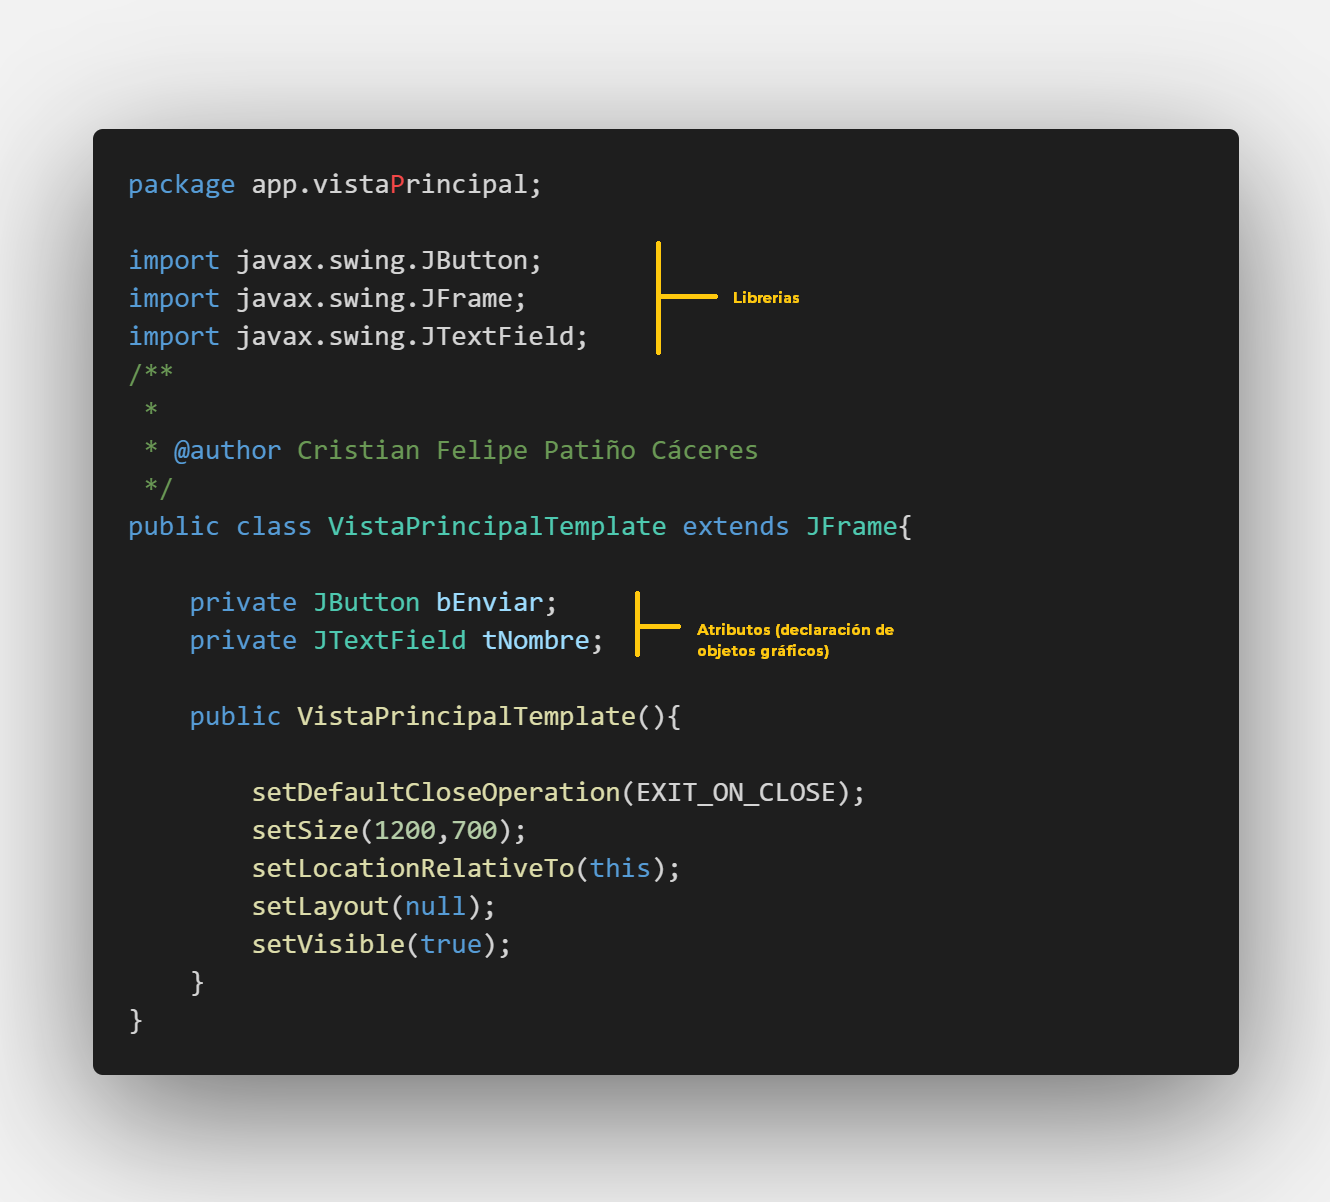
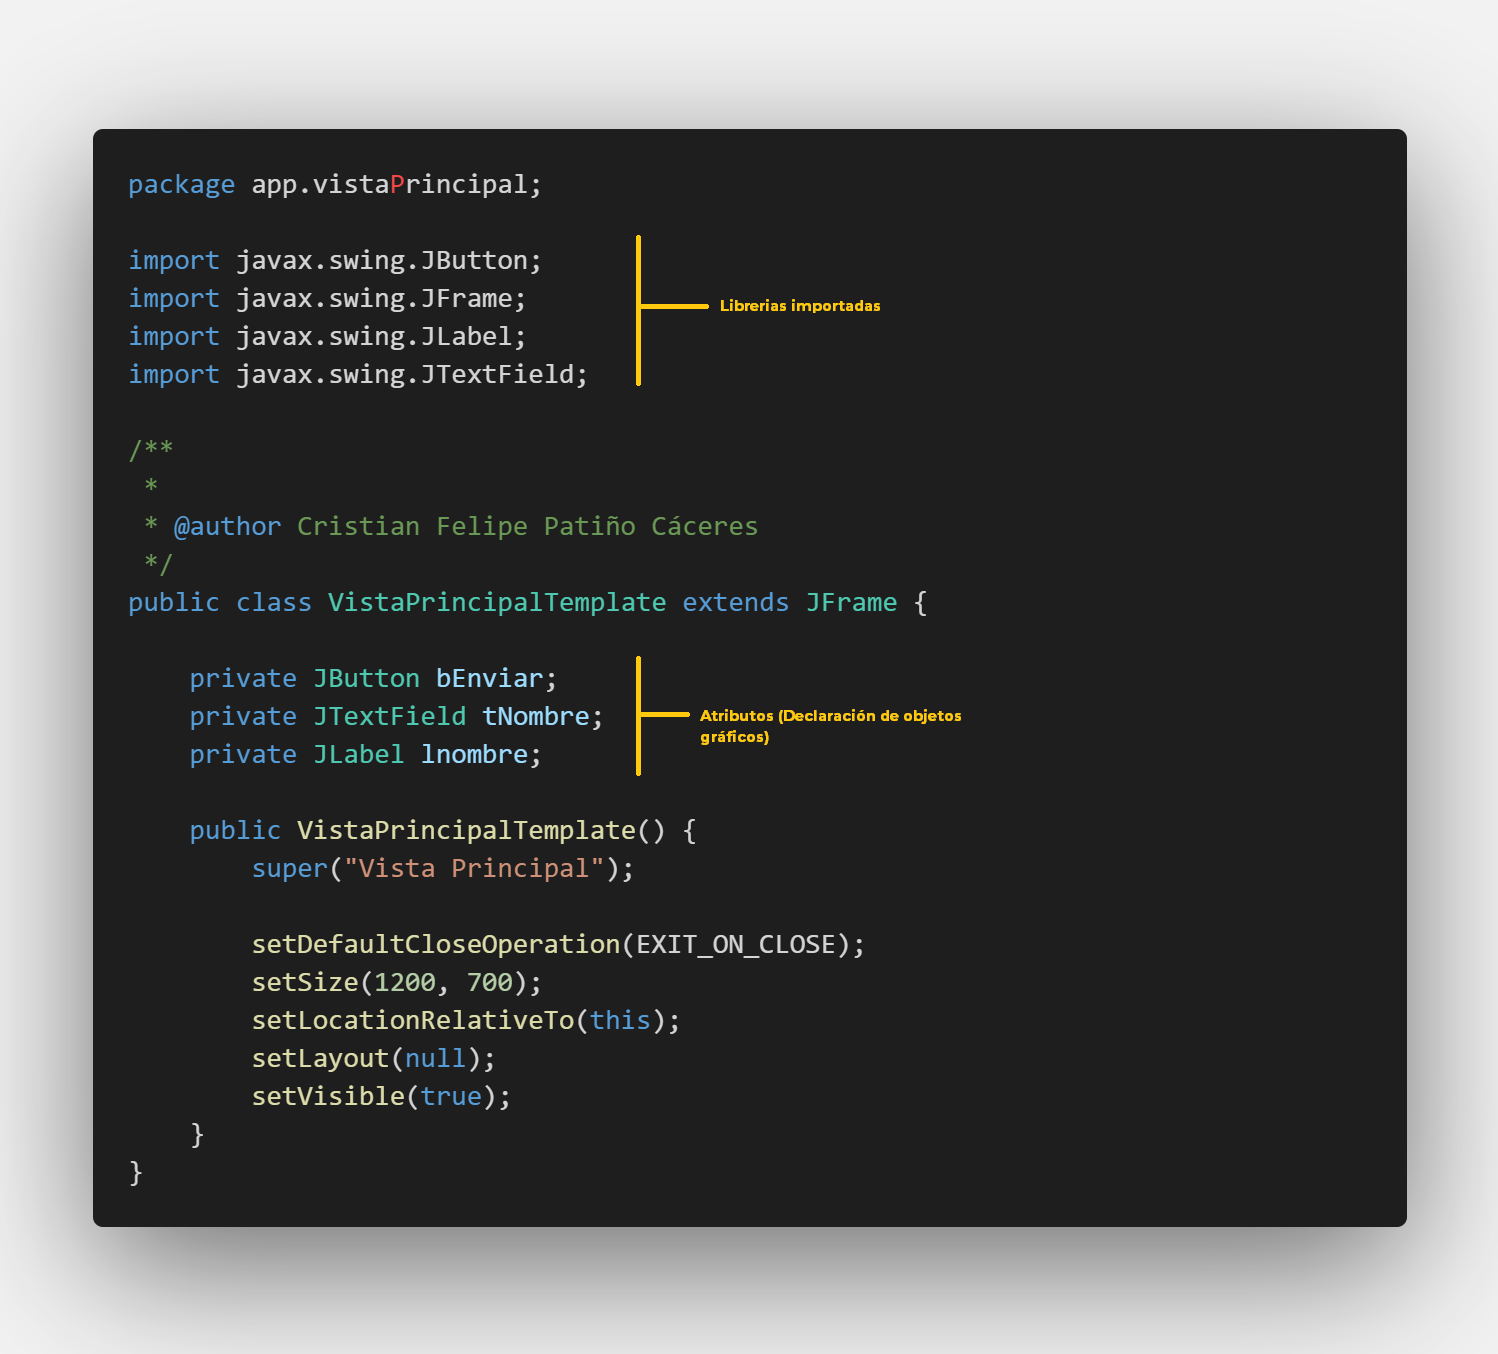
Modificacion de ReadMe, se añade configuracion super

Changed region(s): [[0.0617, 0.0923, 0.9556, 0.9235], [0.1233, 0.4925, 0.6474, 0.8311]]

diff --git a/src/app/vistaPrincipal/VistaPrincipalTemplate.java b/src/app/vistaPrincipal/VistaPrincipalTemplate.java
@@ -2,20 +2,24 @@ package app.vistaPrincipal;
 
 import javax.swing.JButton;
 import javax.swing.JFrame;
+import javax.swing.JLabel;
 import javax.swing.JTextField;
+
 /**
  *
  * @author Cristian Felipe Patiño Cáceres
  */
-public class VistaPrincipalTemplate extends JFrame{
-    
+public class VistaPrincipalTemplate extends JFrame {
+
     private JButton bEnviar;
     private JTextField tNombre;
-    
-    public VistaPrincipalTemplate(){
-        
+    private JLabel lnombre;
+
+    public VistaPrincipalTemplate() {
+        super("Vista Principal");
+
         setDefaultCloseOperation(EXIT_ON_CLOSE);
-        setSize(1200,700);
+        setSize(1200, 700);
         setLocationRelativeTo(this);
         setLayout(null);
         setVisible(true);

diff --git a/README.md b/README.md
@@ -204,7 +204,8 @@ Nuestra Clase Template tiene ciertas características que a continuación serán
 
 En la imagen anterior se puede ver una serie de configuraciones, estas le dan características a la ventana y esto es posible gracias a la herencia a la clase **JFrame**. Cada configuración tiene su propósito:
 
-- **setDefaultCloseOperation:** Recibe en parámetro configuraciones Java. Le indica al compilador que una vez la ventana sea cerrada el programa dejara de correr, esto lo hace gracias al parámetro recibido **EXIT_ON_CLOSE**
+- **super:** Recibe por parámetro un String y le da el titulo a nuestra ventana que se vera reflejada en la barra superior de la interfaz. Es importante recalcar que este método debe colocarse como primera linea de código dentro del constructor, de lo contrario no tendrá efecto en la vista.
+- **setDefaultCloseOperation:** Recibe por parámetro configuraciones Java. Le indica al compilador que una vez la ventana sea cerrada el programa dejara de correr, esto lo hace gracias al parámetro recibido **EXIT_ON_CLOSE**
 - **setSize:** Recibe como parámetros un par de enteros. Le da propiedades de ancho y alto a nuestra ventana, en este caso nuestra ventana ocupara 1200 pixeles de ancho y 700 pixeles de alto.
 - **setLocationRelativeTo:** Recibe como parámetro la clase que quiere ser posicionada. le indica al sistema que nuestra ventana se posicione en el centro del monitor, el **this** como parámetro indica que esta clase es la ventana que se quiere dejar centrada.
 - **setLayout** Recibe por parámetro el Layout que quiera ser utilizado para posicionamiento. Java maneja el posicionamiento de sus objetos gráficos por medio de Layouts, este posicionamiento es algo confuso de entender cuando se esta empezando por lo que por ahora es mejor dejarlo **null** y ser nosotros mismos los que nos encarguemos del posicionamiento de nuestros objetos gráficos.
